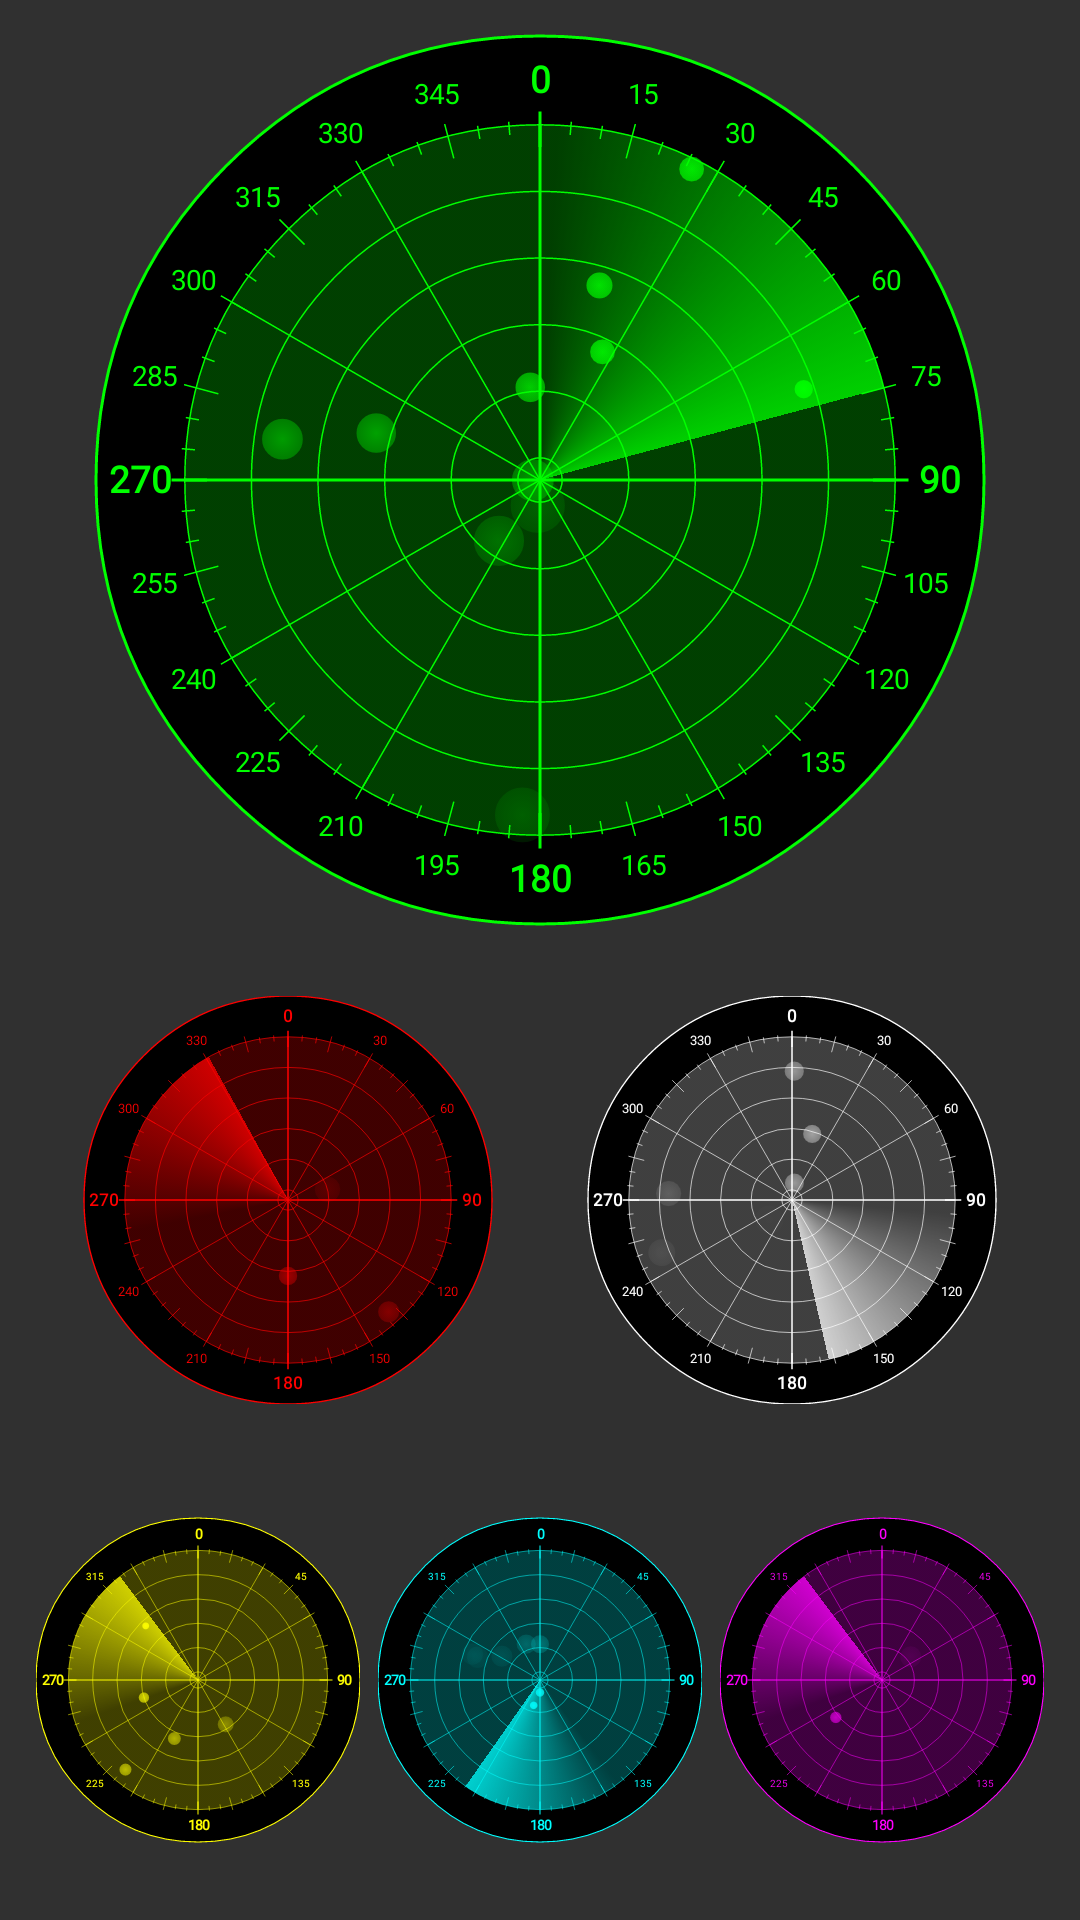
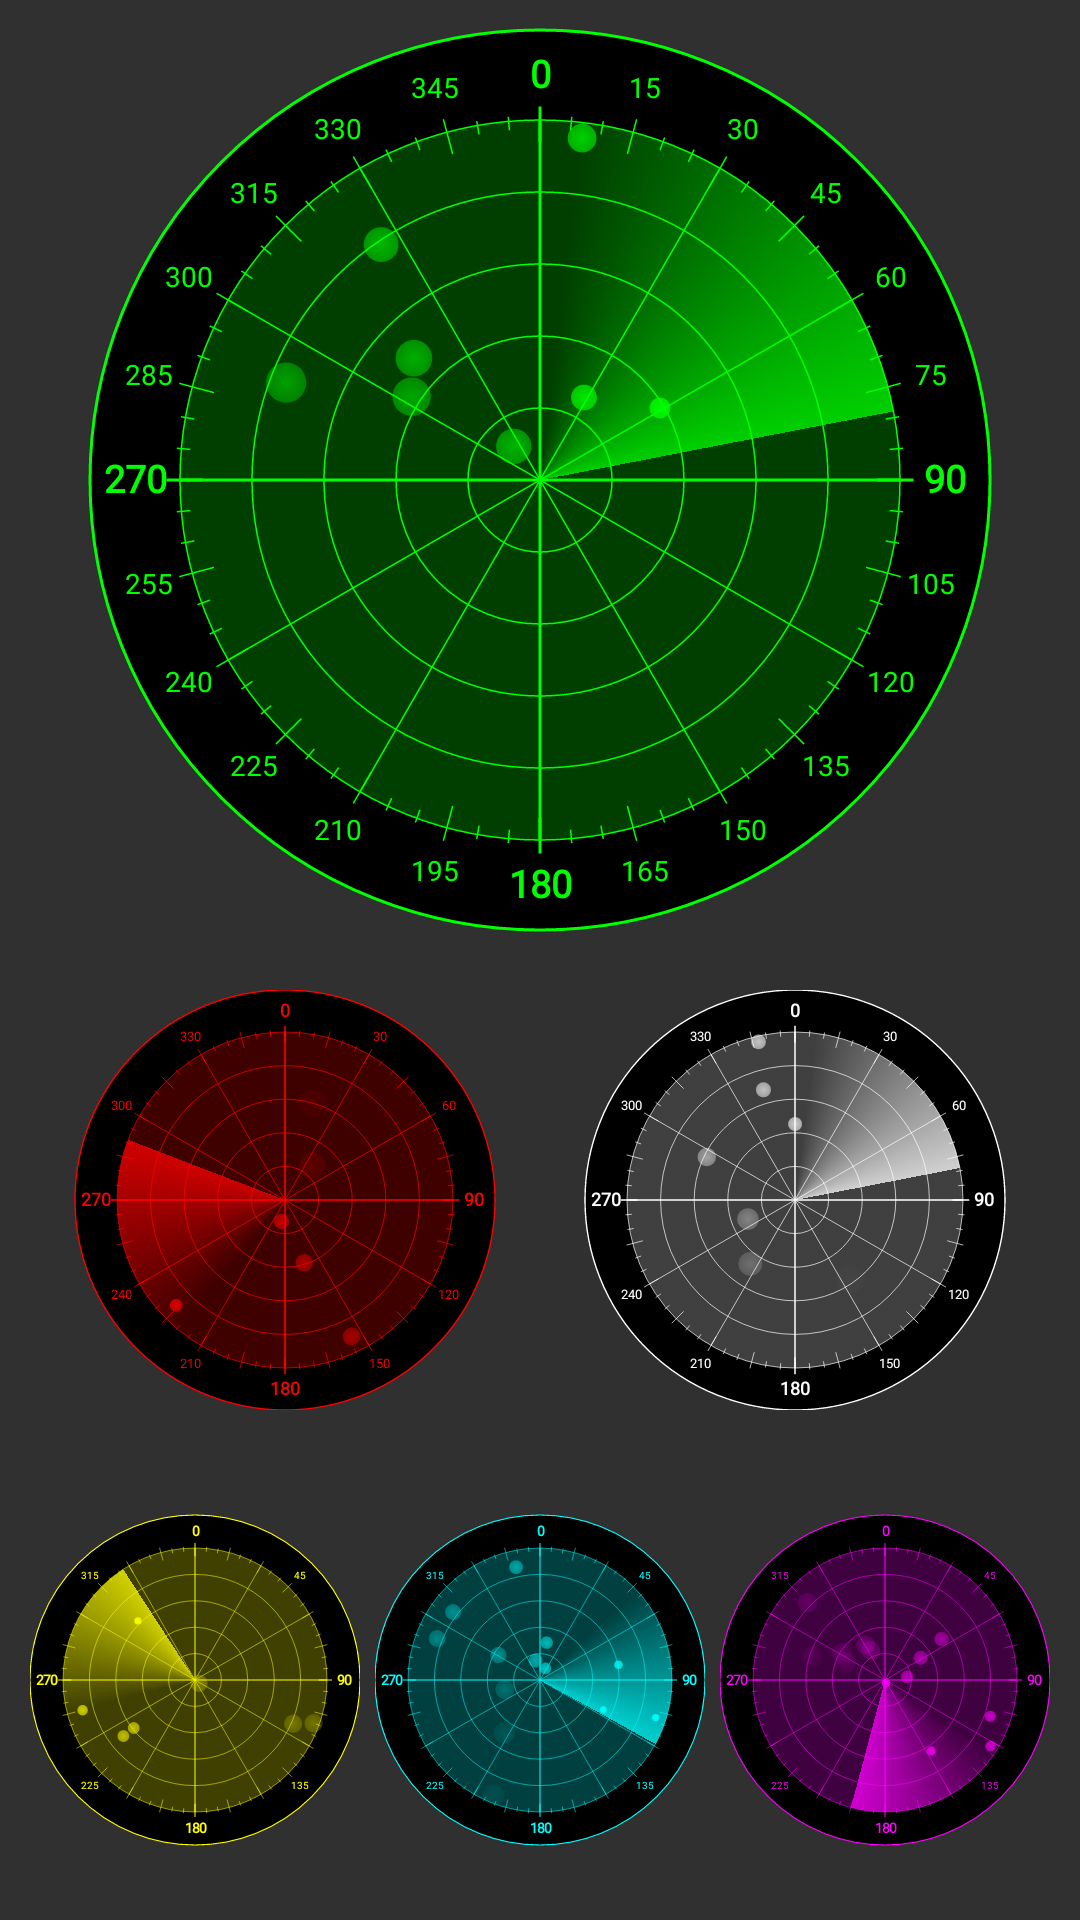
ReadMe usage

diff --git a/library/src/main/java/tw0reck1/sonar/SonarPoint.java b/library/src/main/java/tw0reck1/sonar/SonarPoint.java
@@ -15,6 +15,9 @@
  */
 package tw0reck1.sonar;
 
+/**
+ * A point showing on sonar when detected.
+ */
 public class SonarPoint {
 
     private static final long DEFAULT_LIFETIME = 1250L;
@@ -24,21 +27,61 @@ public class SonarPoint {
     private int mDetectedAngle, mLastAngle, mLastScannerAngle;
     private float mDetectedDist, mVisibility;
 
-    private int mAngle;
-    private float mDist;
-    private long mLifeTime = DEFAULT_LIFETIME;
+    private int mAngle; // angle when facing north (0-360)
+    private float mDist; // distance from the middle of sonar (0f-1f)
+    private long mLifeTime = DEFAULT_LIFETIME; // duration of visibility in ms
 
     public SonarPoint(int angle, float dist) {
         mAngle = angle;
         mDist = dist;
     }
 
-    protected void setData(int angle, float dist) {
+    public void setPosition(int angle, float dist) {
         mAngle = angle;
         mDist = dist;
     }
 
-    public void detect(long currentMs, int currentAngle, int newScannerAngle) {
+    public void setAngle(int angle) {
+        mAngle = angle;
+    }
+
+    public int getAngle() {
+        return mAngle;
+    }
+
+    public void setDistance(float dist) {
+        mDist = dist;
+    }
+
+    public float getDistance() {
+        return mDist;
+    }
+
+    public void setLifeTime(long lifeTime) {
+        mLifeTime = lifeTime;
+    }
+
+    public long getLifeTime() {
+        return mLifeTime;
+    }
+
+    public float getVisibility() {
+        return mVisibility;
+    }
+
+    public boolean isVisible() {
+        return mVisibility > 0 && mDetectedDist <= 1f;
+    }
+
+    public int getDetectedAngle() {
+        return mDetectedAngle;
+    }
+
+    public float getDetectedDist() {
+        return mDetectedDist;
+    }
+
+    public final void detect(long currentMs, int currentAngle, int newScannerAngle) {
         int newAngle = mAngle + currentAngle;
         int lastDiff = SonarUtils.getAngleDiff(
                 SonarUtils.getOffsetAngle(mLastScannerAngle),
@@ -56,22 +99,6 @@ public class SonarPoint {
         mVisibility = 1 - Math.min(1, (float) (currentMs - mDetectionTime) / mLifeTime);
         mLastScannerAngle = newScannerAngle;
         mLastAngle = newAngle;
-    }
-
-    public float getVisibility() {
-        return mVisibility;
-    }
-
-    public boolean isVisible() {
-        return mVisibility > 0;
-    }
-
-    public int getDetectedAngle() {
-        return mDetectedAngle;
-    }
-
-    public float getDetectedDist() {
-        return mDetectedDist;
     }
 
 }

diff --git a/library/src/main/java/tw0reck1/sonar/SonarView.java b/library/src/main/java/tw0reck1/sonar/SonarView.java
@@ -255,11 +255,10 @@ public class SonarView extends RotaryView {
 
         circleCanvas.drawCircle(centerX, centerY, radius, strokePaint);
         circleCanvas.drawCircle(centerX, centerY, radius * 0.8f, thinStrokePaint);
-        circleCanvas.drawCircle(centerX, centerY, radius * 0.65f, thinStrokePaint);
-        circleCanvas.drawCircle(centerX, centerY, radius * 0.5f, thinStrokePaint);
-        circleCanvas.drawCircle(centerX, centerY, radius * 0.35f, thinStrokePaint);
-        circleCanvas.drawCircle(centerX, centerY, radius * 0.2f, thinStrokePaint);
-        circleCanvas.drawCircle(centerX, centerY, radius * 0.05f, thinStrokePaint);
+        circleCanvas.drawCircle(centerX, centerY, radius * 0.64f, thinStrokePaint);
+        circleCanvas.drawCircle(centerX, centerY, radius * 0.48f, thinStrokePaint);
+        circleCanvas.drawCircle(centerX, centerY, radius * 0.32f, thinStrokePaint);
+        circleCanvas.drawCircle(centerX, centerY, radius * 0.16f, thinStrokePaint);
 
         for (int i = 0; i < LINE_COUNT; i++) {
             int angle = i * LINE_ANGLE;

diff --git a/sample/src/main/java/tw0reck1/sonarapp/MainActivity.java b/sample/src/main/java/tw0reck1/sonarapp/MainActivity.java
@@ -35,7 +35,7 @@ public class MainActivity extends AppCompatActivity {
 
     protected List<SonarPoint> getRandomSonarPoints() {
         Random random = new Random();
-        int count = random.nextInt(10)+3;
+        int count = random.nextInt(12) + 6;
 
         List<SonarPoint> result = new ArrayList<>();
         for (int i = 0; i < count; i++) {

diff --git a/README.md b/README.md
@@ -1,9 +1,30 @@
 # SonarView
-Custom Android View for displaying locations on a rotable sonar.
-### Sample
+Custom Android View imitating a sonar. Points appear on sonar after being detected for a specified amount of time. The location where they appear depends on their parameters and device's rotation. Touching the view makes it detect points faster.
+### Usage
+Declaring view in layout:
+```xml
+    <tw0reck1.sonar.SonarView
+        android:id="@+id/sonarview"
+        android:layout_width="match_parent"
+        android:layout_height="wrap_content"
+        android:padding="12dp"
+        app:sv_color="#0f0"/>
+```
+Setup code:
 ```java
 ...
+    mSonarView = (SonarView) findViewById(R.id.sonarview);
+    List<SonarPoint> sonarPoints = Arrays.asList(
+            new SonarPoint(0, 0.5f), // angle when facing north; distance from center;
+            new SonarPoint(30, 1f),
+            new SonarPoint(60, 0.8f),
+            new SonarPoint(120, 0.4f),
+            new SonarPoint(180, 0.6f),
+            new SonarPoint(225, 0.7f)
+    );
     mSonarView.setPoints(mPointsList);
 ...
 ```
+![Sample](sample.png)
+### Samples
 ![Screenshot](screenshot.png)
